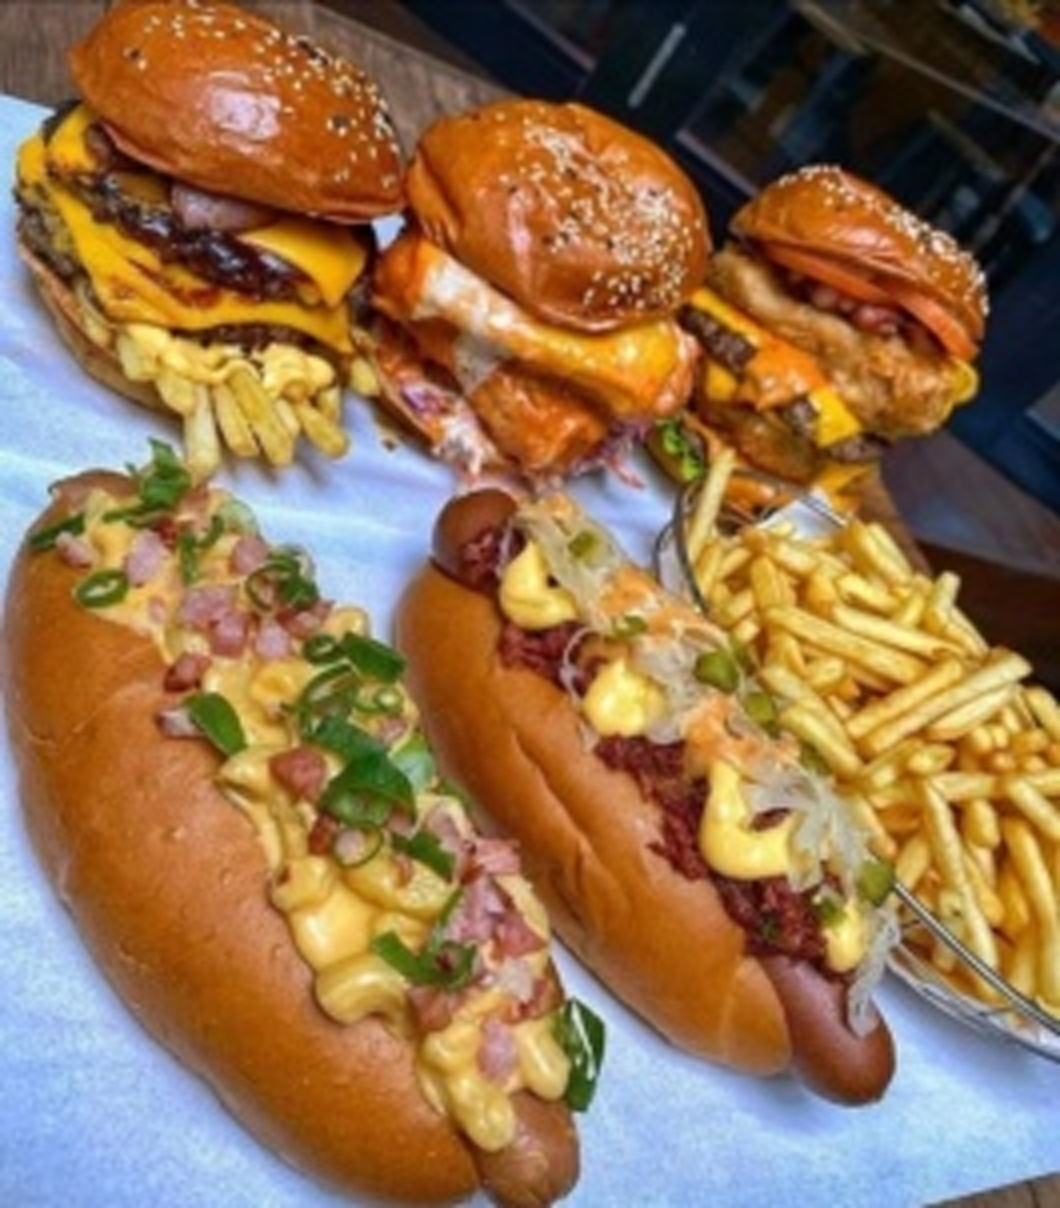
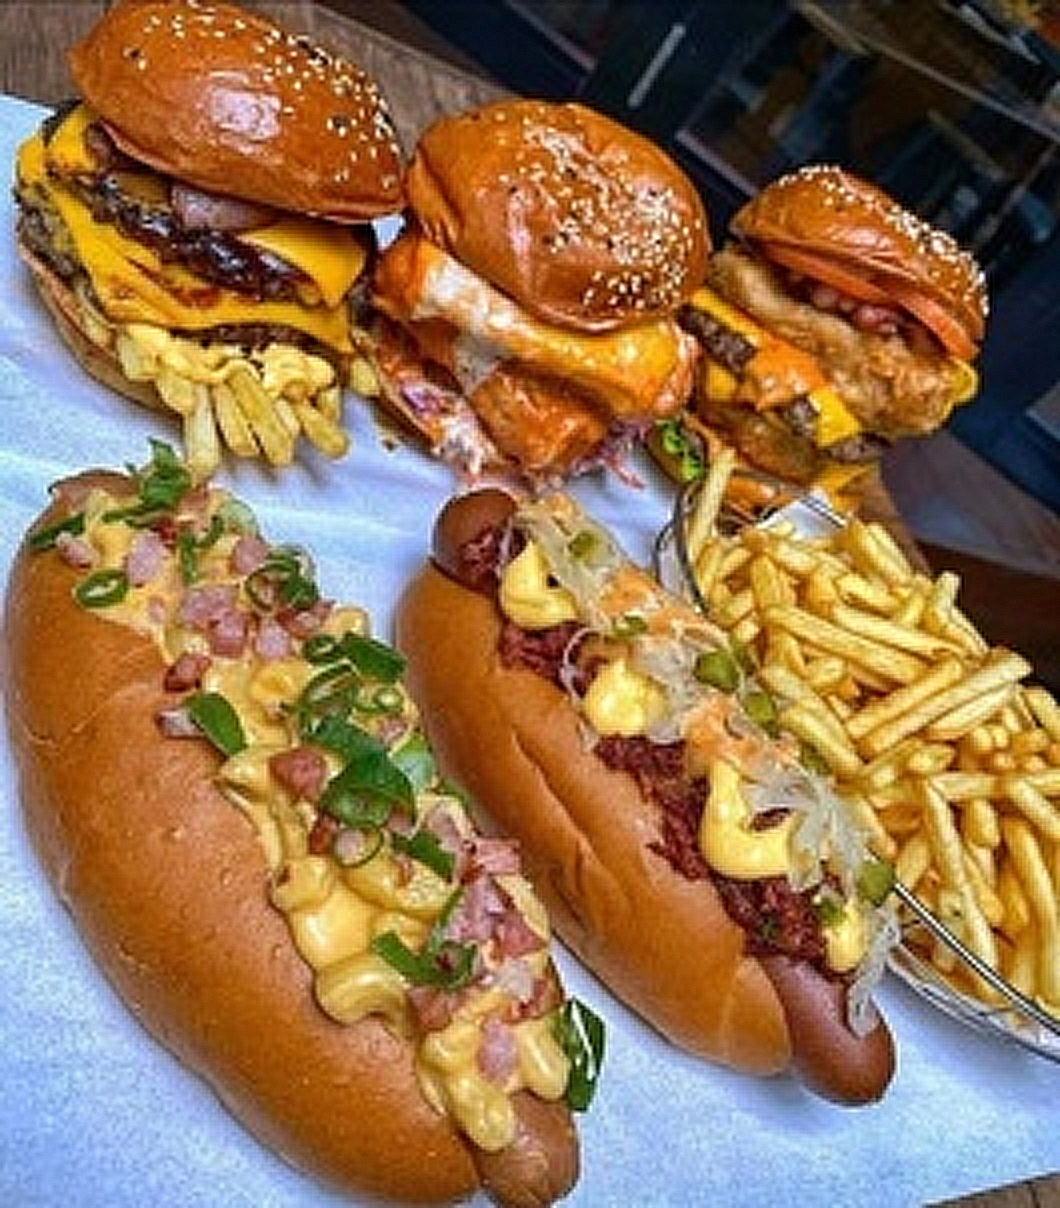
added a sharpening filter
to improve upscaled image quality by 168%

diff --git a/main.py b/main.py
@@ -24,7 +24,11 @@ def upsample_image(image, upsample_factor):
     new_cols = int(cols * upsample_factor)
     upsampled_image = cv2.resize(image, (new_cols, new_rows), interpolation=cv2.INTER_CUBIC)
     
-    return upsampled_image
+    # Apply a sharpening filter to the upsampled image
+    kernel = np.array([[-1,-1,-1], [-1,9,-1], [-1,-1,-1]])
+    sharpened_image = cv2.filter2D(upsampled_image, -1, kernel)
+    
+    return sharpened_image
 
 # Load a base image
 image = cv2.imread('hotdawg.jpg')
